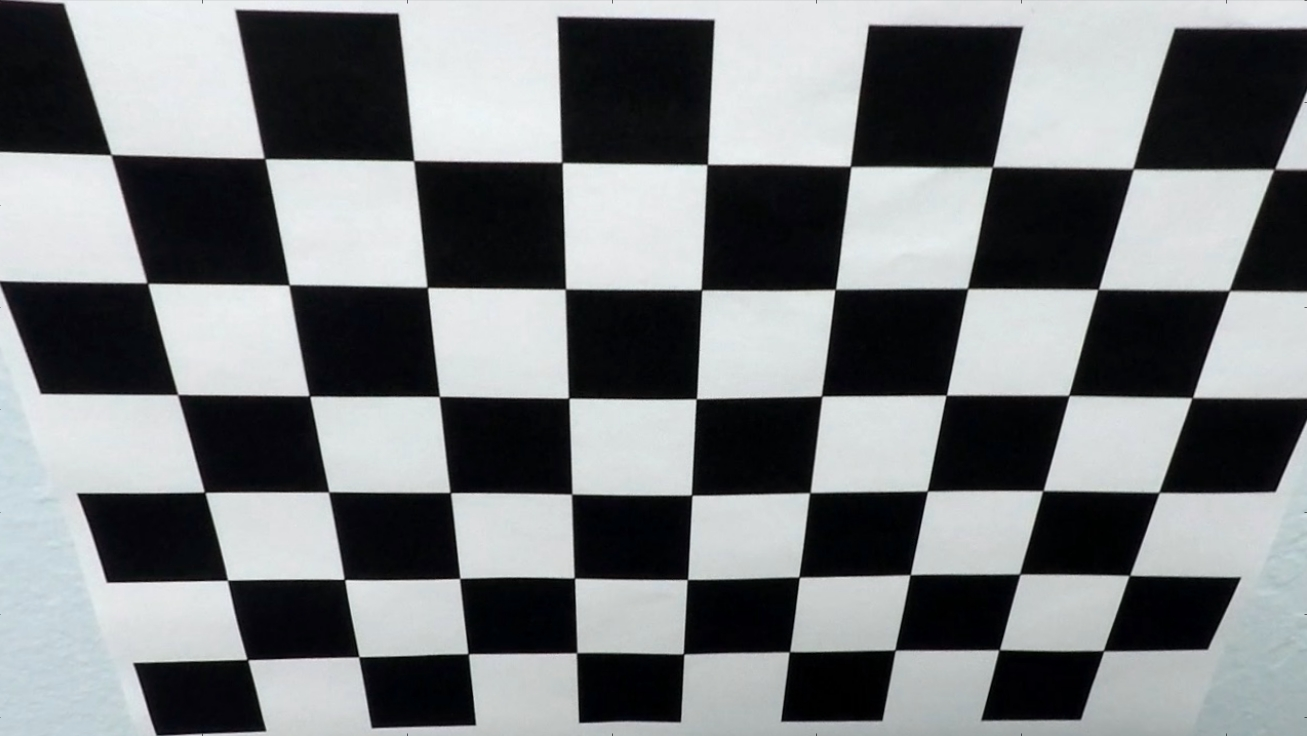
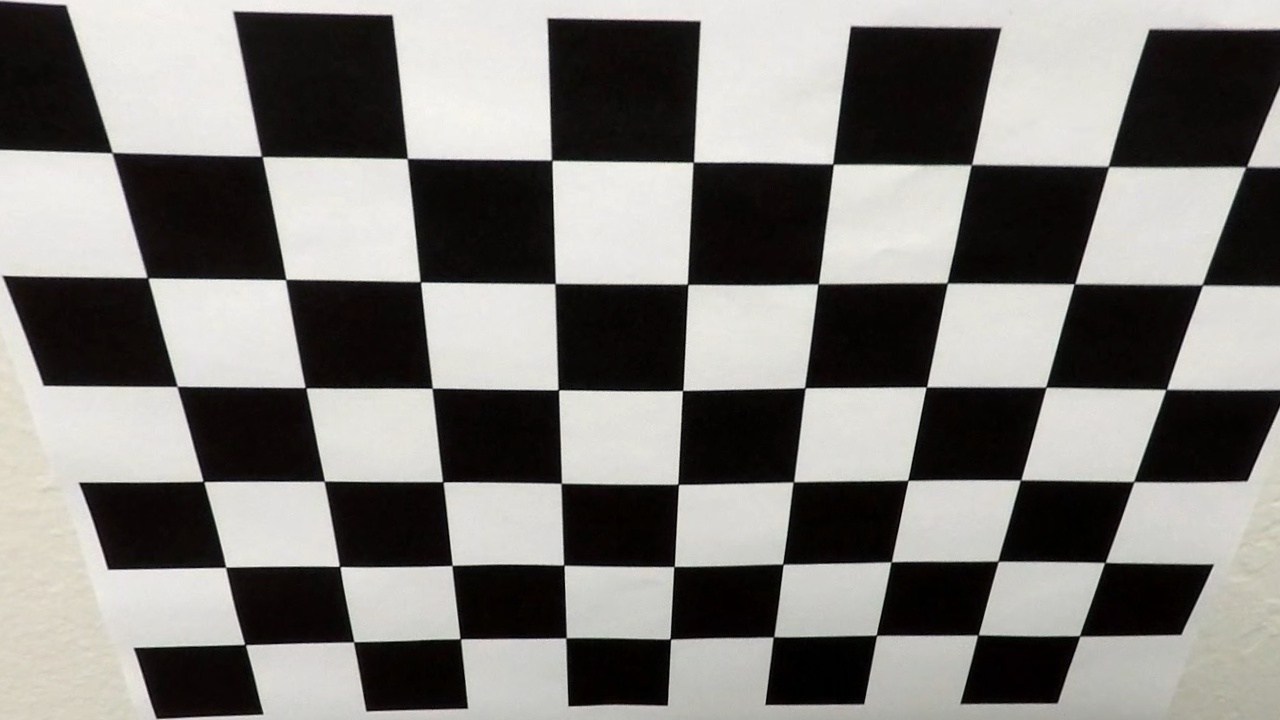
Preparing write up

diff --git a/test.py b/test.py
@@ -1,13 +1,17 @@
 import cv2
 import pickle
 import matplotlib.pyplot as plt
+from methods import threshold
+from methods import transform_perspective as trp
+from methods import warp
+
+M = pickle.load(open("params/perspectiveTransformMatrix.p", "rb"))
 
 dist_pickle = pickle.load( open( "params/calibration.p", "rb" ) )
 mtx = dist_pickle[0]
 dist = dist_pickle[1]
 
-image = cv2.imread('camera_cal/calibration2.jpg')
-dst = cv2.undistort(image, mtx, dist, None, mtx)
-plt.figure()
-plt.imshow(dst)
-plt.show()
+image = cv2.imread('test_images/result_transformed.jpg')
+thresholded = threshold.process_image(image)
+#warped = warp.process(thresholded)
+cv2.imwrite('test_images/result_thresholded.jpg', thresholded)

diff --git a/utils/get_transform_perspective_matrix.py b/utils/get_transform_perspective_matrix.py
@@ -17,8 +17,8 @@ dst = np.float32([[offsetx,imshape[0]-offsety],
                     [imshape[1]-offsetx, imshape[0]-offsety]])
 
 M = cv2.getPerspectiveTransform(src, dst)
-Minv = cv2.getPerspectiveTransform(dst, src))
+Minv = cv2.getPerspectiveTransform(dst, src)
 
-pickle.dump(M, open("params/perspectiveTransformMatrix.p", "wb"))
-pickle.dump(Minv, open("params/oppositePerspectiveTransformMatrix.p", "wb"))
+pickle.dump(M, open("../params/perspectiveTransformMatrix.p", "wb"))
+pickle.dump(Minv, open("../params/oppositePerspectiveTransformMatrix.p", "wb"))
 print("Perspective transform matrix saved")

diff --git a/utils/camera_calibration.py b/utils/camera_calibration.py
@@ -23,5 +23,5 @@ for i, filename in enumerate(calibration_images):
 test_image = cv2.imread('../test_images/straight_lines1.jpg')
 ret, mtx, dist, rvecs, tvecs = cv2.calibrateCamera(objpoints, imagepoints, test_image.shape[:2], None, None)
 
-pickle.dump((mtx, dist), open("params/calibration.p", "wb"))
+pickle.dump((mtx, dist), open("../params/calibration.p", "wb"))
 print("Calibration data saved")

diff --git a/writeup_template.md b/writeup_template.md
@@ -1,9 +1,6 @@
-## Writeup Template
-
-### You can use this file as a template for your writeup if you want to submit it as a markdown file, but feel free to use some other method and submit a pdf if you prefer.
+## Project Writeup
 
 ---
-
 **Advanced Lane Finding Project**
 
 The goals / steps of this project are the following:
@@ -19,80 +16,82 @@ The goals / steps of this project are the following:
 
 [//]: # (Image References)
 
-[image1]: ./examples/undistort_output.png "Undistorted"
-[image2]: ./test_images/test1.jpg "Road Transformed"
-[image3]: ./examples/binary_combo_example.jpg "Binary Example"
-[image4]: ./examples/warped_straight_lines.jpg "Warp Example"
-[image5]: ./examples/color_fit_lines.jpg "Fit Visual"
-[image6]: ./examples/example_output.jpg "Output"
+[image1]: ./camera_cal/calibration2.jpg "Distorted"
+[image2]: ./camera_cal/result.jpg "Undistorted"
+[image3]: ./test_images/straight_lines1.jpg "Distorted"
+[image4]: ./test_images/result.jpg "Undistorted"
+[image5]: ./test_images/result_transformed.jpg "Transformed"
+[image6]: ./test_images/result_thresholded.jpg "Thresholded and warped"
 [video1]: ./project_video.mp4 "Video"
 
-## [Rubric](https://review.udacity.com/#!/rubrics/571/view) Points
+### [Rubric](https://review.udacity.com/#!/rubrics/571/view) Points
 
-### Here I will consider the rubric points individually and describe how I addressed each point in my implementation.  
+##### Here I will consider the rubric points individually and describe how I addressed each point in my implementation.  
 
 ---
 
-### Writeup / README
+#### Camera Calibration
 
-#### 1. Provide a Writeup / README that includes all the rubric points and how you addressed each one.  You can submit your writeup as markdown or pdf.  [Here](https://github.com/udacity/CarND-Advanced-Lane-Lines/blob/master/writeup_template.md) is a template writeup for this project you can use as a guide and a starting point.  
+##### 1. Briefly state how you computed the camera matrix and distortion coefficients. Provide an example of a distortion corrected calibration image.
 
-You're reading it!
-
-### Camera Calibration
-
-#### 1. Briefly state how you computed the camera matrix and distortion coefficients. Provide an example of a distortion corrected calibration image.
-
-The code for this step is contained in the first code cell of the IPython notebook located in "./examples/example.ipynb" (or in lines # through # of the file called `some_file.py`).  
+The code for this step is contained in the file called `camera_calibration.py` in _utils_ directory.  
 
 I start by preparing "object points", which will be the (x, y, z) coordinates of the chessboard corners in the world. Here I am assuming the chessboard is fixed on the (x, y) plane at z=0, such that the object points are the same for each calibration image.  Thus, `objp` is just a replicated array of coordinates, and `objpoints` will be appended with a copy of it every time I successfully detect all chessboard corners in a test image.  `imgpoints` will be appended with the (x, y) pixel position of each of the corners in the image plane with each successful chessboard detection.  
 
 I then used the output `objpoints` and `imgpoints` to compute the camera calibration and distortion coefficients using the `cv2.calibrateCamera()` function.  I applied this distortion correction to the test image using the `cv2.undistort()` function and obtained this result: 
 
-![alt text][image1]
+![alt text][image1] ![alt text][image2]
 
 ### Pipeline (single images)
 
 #### 1. Provide an example of a distortion-corrected image.
 
-To demonstrate this step, I will describe how I apply the distortion correction to one of the test images like this one:
-![alt text][image2]
-
-#### 2. Describe how (and identify where in your code) you used color transforms, gradients or other methods to create a thresholded binary image.  Provide an example of a binary image result.
-
-I used a combination of color and gradient thresholds to generate a binary image (thresholding steps at lines # through # in `another_file.py`).  Here's an example of my output for this step.  (note: this is not actually from one of the test images)
-
-![alt text][image3]
+Here is application of distortion correction to one of the actual images of the road. This step is done in file `track_lines.py` in line #34, at the beginning of frame processing pipeline.
+![alt text][image3] ![alt text][image4]
 
 #### 3. Describe how (and identify where in your code) you performed a perspective transform and provide an example of a transformed image.
 
-The code for my perspective transform includes a function called `warper()`, which appears in lines 1 through 8 in the file `example.py` (output_images/examples/example.py) (or, for example, in the 3rd code cell of the IPython notebook).  The `warper()` function takes as inputs an image (`img`), as well as source (`src`) and destination (`dst`) points.  I chose the hardcode the source and destination points in the following manner:
+I applied perspective transform before thresholding, not too loose too much of the upper lines part from thresholded image.
+The code for my perspective transform includes a file `transform_perspective.py` and a file `warp.py` both in _methods_ directory. I also used a separate script for generating transform matrix and reversed transform matrix, so it's not repeated in processing of every image (this file can be found in _utils_ direcotry and is called `get_perspective_transform_matrix.py`).
+I chose the hardcode the source and destination points in the following manner:
 
 ```python
-src = np.float32(
-    [[(img_size[0] / 2) - 55, img_size[1] / 2 + 100],
-    [((img_size[0] / 6) - 10), img_size[1]],
-    [(img_size[0] * 5 / 6) + 60, img_size[1]],
-    [(img_size[0] / 2 + 55), img_size[1] / 2 + 100]])
-dst = np.float32(
-    [[(img_size[0] / 4), 0],
-    [(img_size[0] / 4), img_size[1]],
-    [(img_size[0] * 3 / 4), img_size[1]],
-    [(img_size[0] * 3 / 4), 0]])
+a = (276,imshape[0]-50)
+b = ((imshape[1]/2)-47, 450)
+c = ((imshape[1]/2)+55, 450)
+d = (imshape[1]-240,imshape[0]-50)
+src = np.array([[a, b, c, d]], dtype=np.float32)
+
+offsetx = 400
+offsety = 0
+dst = np.float32([[offsetx,imshape[0]-offsety], 
+                    [offsetx,offsety], 
+                    [imshape[1]-offsetx, offsety], 
+                    [imshape[1]-offsetx, imshape[0]-offsety]])
 ```
 
 This resulted in the following source and destination points:
 
 | Source        | Destination   | 
 |:-------------:|:-------------:| 
-| 585, 460      | 320, 0        | 
-| 203, 720      | 320, 720      |
-| 1127, 720     | 960, 720      |
-| 695, 460      | 960, 0        |
+| 276, 670      | 400, 720        | 
+| 593, 450      | 400, 0      |
+| 695, 450     | 880, 0      |
+| 1020, 670      | 880, 720        |
 
-I verified that my perspective transform was working as expected by drawing the `src` and `dst` points onto a test image and its warped counterpart to verify that the lines appear parallel in the warped image.
-
+Transformed image:
 ![alt text][image4]
+
+
+#### 2. Describe how (and identify where in your code) you used color transforms, gradients or other methods to create a thresholded binary image.  Provide an example of a binary image result.
+
+I used a combination of color and gradient thresholds to generate a binary image (thresholding steps methods and steps (method _process_image_) in `threshold.py` in _methods_ directory). I use all the line points from thresholded *S* layer from image in HLS color space and aditionally I get points by applying sobel of x gradients on *S* layer of image in HLS color space and checking if the direction of the gradients is in specified range. All of the threshold parameters can be found in lines #52-#55 and they are mostly the result of trial-and-error method of adjusting them.
+For the video frames, thresholding is applied using defined before _process_image_ method called in `track_lines.py` file in line #36
+Here's an example of my output for this step.
+
+
+![alt text][image3]
+
 
 #### 4. Describe how (and identify where in your code) you identified lane-line pixels and fit their positions with a polynomial?
 
